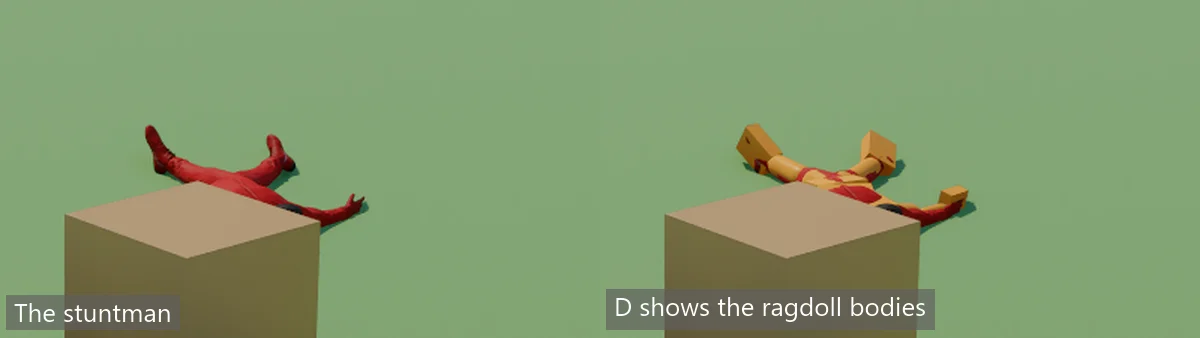
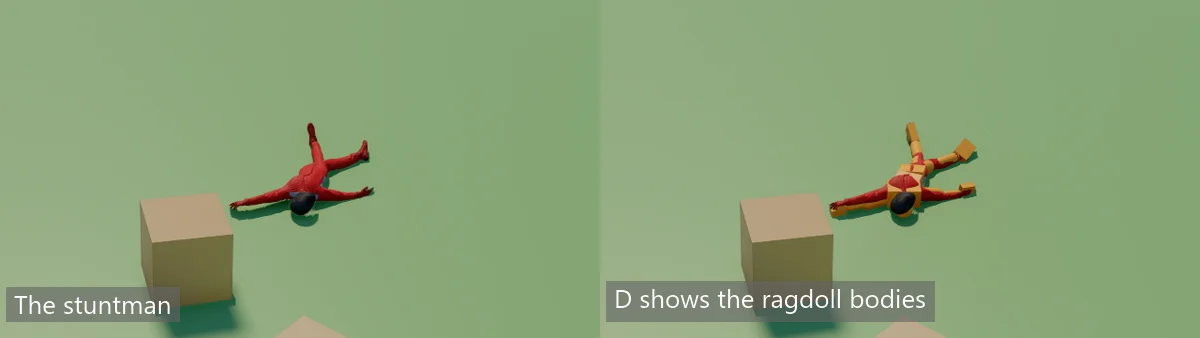
fix: follow the cannonball from ahead and above, so the wall doesn't hide the landing

Changed region(s): [[0.4933, 0.355, 0.8325, 1.0], [0.0, 0.355, 0.3083, 1.0]]

diff --git a/examples/Cannonball/CannonballGame.cs b/examples/Cannonball/CannonballGame.cs
@@ -69,8 +69,8 @@ public sealed class CannonballGame(World world, Content content, Physics physics
 
     private Vector3 JointAt(string joint) => (world.Get<Animated>(Stuntman).Value.Joint(joint) * world.Get<Transform>(Stuntman).Matrix).Translation;
 
-    /// <summary>Trails the stuntman from the side and behind, so the whole flight crosses the screen.</summary>
-    public FollowCamera Camera { get; } = new() { Offset = new Vector3(-12f, 4f, -2f), Lag = 0.35f, FieldOfView = 0.8f, WideAs = 16f / 9f };
+    /// <summary>Follows the stuntman from the side, a little ahead and above, so the whole flight crosses the screen and the wall never hides where they land.</summary>
+    public FollowCamera Camera { get; } = new() { Offset = new Vector3(-11f, 7f, 4f), Lag = 0.35f, FieldOfView = 0.8f, WideAs = 16f / 9f };
 
     /// <summary>For <c>--script bodies</c>: shows the ragdoll's bodies, so a screenshot can show them.</summary>
     public IReadOnlyDictionary<string, InputScript> Scripts => new Dictionary<string, InputScript>
